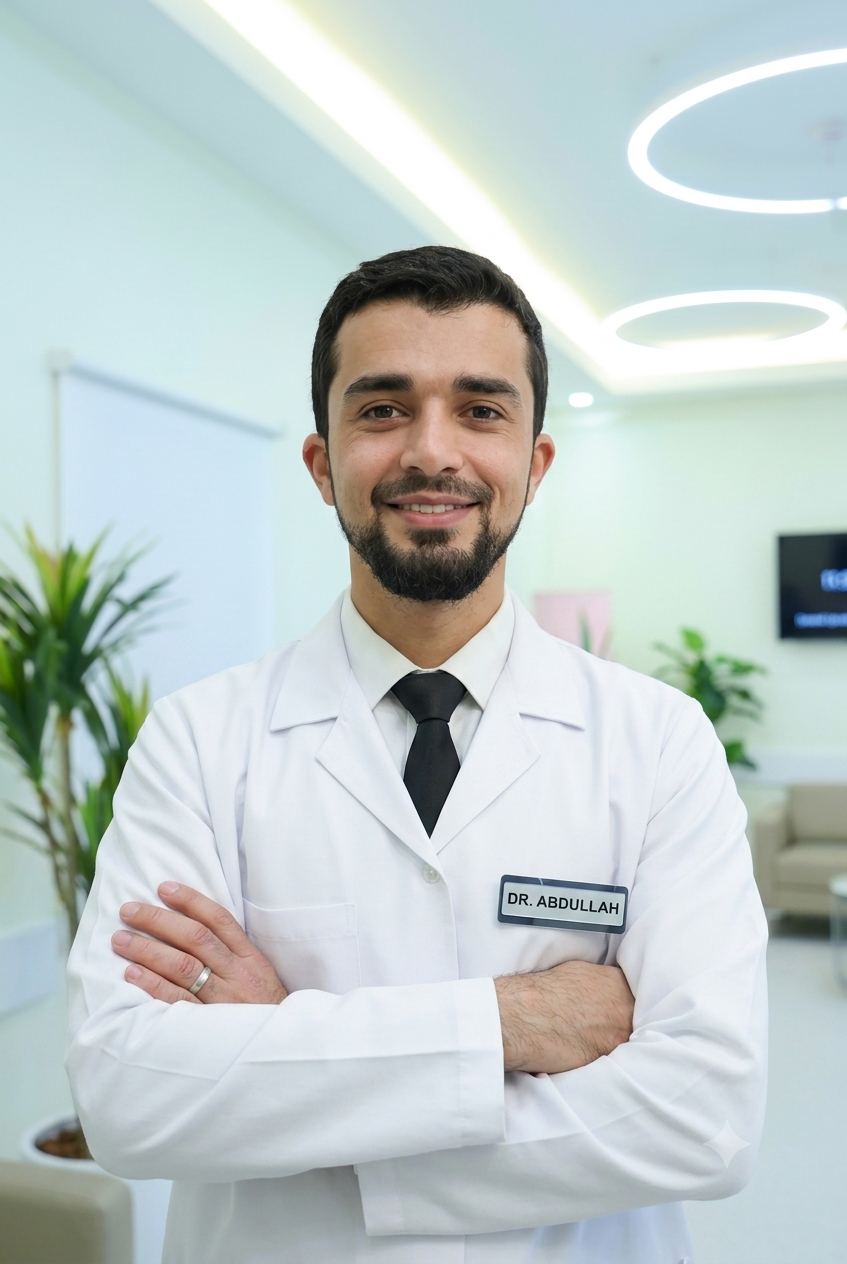
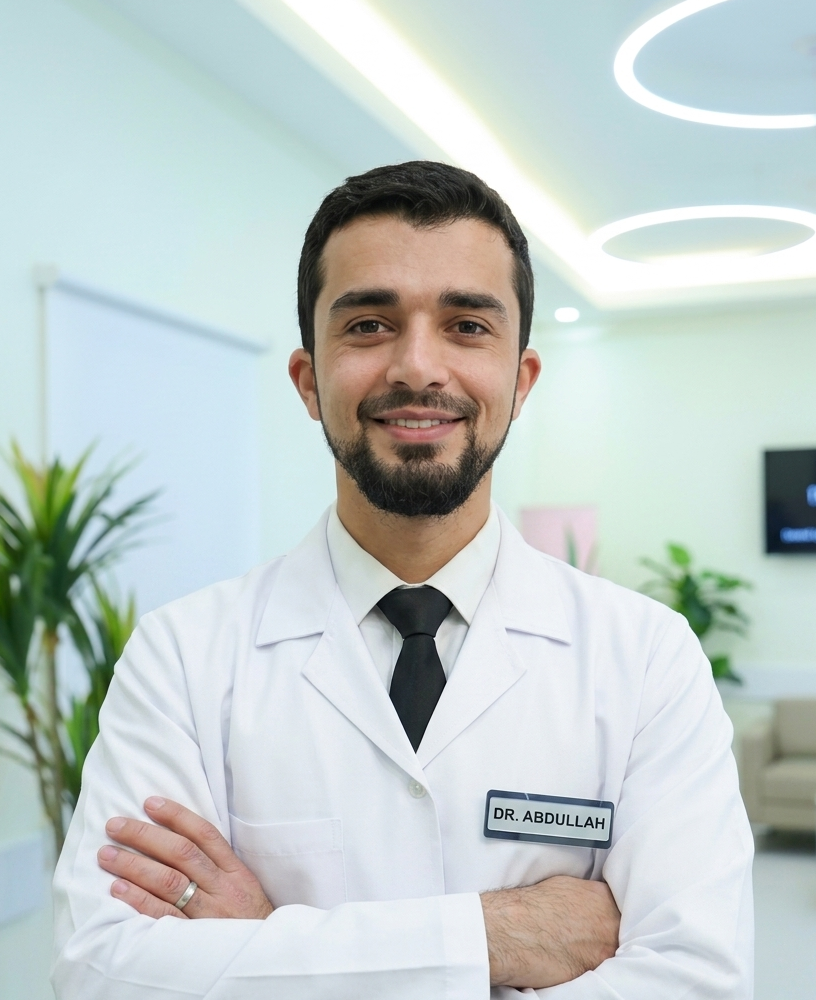
polish services and doctor section

diff --git a/components/sections/doctors.tsx b/components/sections/doctors.tsx
@@ -2,32 +2,28 @@
 
 import { motion } from "framer-motion";
 import { Section } from "./section-shell";
-import { Card, CardImage, CardContent } from "@/components/ui/card";
+import { Card, CardContent } from "@/components/ui/card";
 import { Heading, Text } from "@/components/ui/typography";
 import type { ImageContent, IconContent } from "./types";
 import { staggerContainer, slideUp } from "@/lib/motion";
 
 export interface DoctorItem {
   /**
-   * Doctor photo. Optional — omit to use `specialtyIcon` instead (e.g. for
-   * clinics that prefer not to display staff photos), or omit both for a
-   * generic placeholder tile.
+   * Doctor photo. Optional — omit to use `specialtyIcon` instead,
+   * or omit both for a generic placeholder tile.
    */
   image?: ImageContent;
   /**
-   * Equipment/specialty icon shown instead of a photo — e.g. a stethoscope
-   * for cardiology, a tooth for dentistry. Rendered in a fixed-height tile
-   * the same size as the photo slot, so card height stays identical
-   * whether a doctor has a photo or an icon.
+   * Equipment/specialty icon shown instead of a photo.
    */
   specialtyIcon?: IconContent;
-  /** Optional small badge shown over the photo, e.g. "Founder". */
+  /** Optional badge shown over top-start corner, e.g. "Founder". */
   badge?: string;
   name: string;
   specialization: string;
-  /** One short sentence — a scan-friendly credibility line, not a full bio. */
+  /** One short sentence — a scan-friendly credibility line. */
   description?: string;
-  /** e.g. "12 years experience" — kept as a plain string so copy/locale controls exact phrasing. */
+  /** e.g. "12+ years experience" */
   experience?: string;
 }
 
@@ -41,89 +37,126 @@ export interface DoctorsContent {
   animate?: boolean;
 }
 
-/**
- * LAYOUT
- * Mobile:  1 column.
- * Tablet:  2 columns.
- * Desktop: 3 columns (fixed, per spec).
- *
- * DESIGN RULES
- * - Every card has an identical h-48 visual slot at the top — a real
- *   photo (`CardImage`), a specialty-icon tile, or a generic placeholder
- *   tile — so card height never varies with content availability.
- * - Optional `badge` (e.g. "Founder") renders as a small pill over the
- *   top-start corner of the image slot.
- * - Name is the visual anchor (h3-weight); specialization is secondary;
- *   description/experience are tertiary/muted — trust hierarchy, not
- *   decoration.
- * - RTL: card content uses `text-start`, and the badge uses `start-3`
- *   (not `left-3`), both inherited/mirrored automatically under
- *   dir="rtl" — no directional classes needed here.
- *
- * MOTION
- * Uses only the existing `staggerContainer` + `slideUp` variants — cards
- * reveal one after another rather than all at once, still calm/medical
- * (same duration/easing as the rest of the system).
- */
 export function Doctors({
   id,
   eyebrow,
   title,
   description,
   doctors,
-  animate = false,
+  animate = true,
 }: DoctorsContent) {
-  const GridWrapper = animate ? motion.div : "div";
+  const Container = animate ? motion.div : "div";
 
   return (
-    <Section id={id} eyebrow={eyebrow} title={title} description={description} animate={animate}>
-      <GridWrapper
-        {...(animate
-          ? { variants: staggerContainer, initial: "hidden", whileInView: "visible", viewport: { once: true, margin: "-80px" } }
-          : {})}
-        className="grid grid-cols-1 gap-6 sm:grid-cols-2 lg:grid-cols-3"
-      >
-        {doctors.map((doctor, i) => (
-          <motion.div key={i} {...(animate ? { variants: slideUp } : {})}>
-            <Card className="flex h-full flex-col">
-              <div className="relative">
-                {doctor.image ? (
-                  <CardImage src={doctor.image.src} alt={doctor.image.alt} className="object-top" />
-                ) : (
-                  <div className="flex h-48 w-full items-center justify-center bg-muted text-primary" aria-hidden>
-                    {doctor.specialtyIcon ?? (
-                      <Text variant="caption">Doctor Photo</Text>
+    <div className="relative overflow-hidden">
+      {/* Symmetric background gradient identical to About and Services */}
+      <div className="absolute inset-0 -z-10" aria-hidden>
+        <div className="absolute inset-0 bg-[linear-gradient(to_bottom,var(--color-background),var(--color-secondary)_50%,var(--color-background)_100%)]" />
+      </div>
+
+      <Section id={id} className="py-xl md:py-2xl">
+        <Container
+          {...(animate
+            ? {
+                variants: staggerContainer,
+                initial: "hidden",
+                whileInView: "visible",
+                viewport: { once: true, margin: "-50px" },
+              }
+            : {})}
+          className="flex flex-col items-center w-full"
+        >
+          {/* Animated Header Block */}
+          <motion.div
+            {...(animate ? { variants: slideUp } : {})}
+            className="flex flex-col items-center text-center max-w-3xl mx-auto mb-10 md:mb-14 gap-3"
+          >
+            {eyebrow && <Heading level="h6">{eyebrow}</Heading>}
+            <Heading level="h2" className="text-foreground">
+              {title}
+            </Heading>
+            {description && (
+              <Text variant="body" className="text-muted-foreground text-balance">
+                {description}
+              </Text>
+            )}
+          </motion.div>
+
+          {/* Doctors Grid: 1 col mobile, 2 cols tablet, 3 cols desktop */}
+          <div className="grid grid-cols-1 gap-6 sm:grid-cols-2 lg:grid-cols-3 w-full">
+            {doctors.map((doctor, i) => (
+              <motion.div
+                key={i}
+                {...(animate ? { variants: slideUp } : {})}
+                className="h-full"
+              >
+                <Card 
+                  interactive 
+                  className="group relative flex h-full flex-col overflow-hidden rounded-section border border-border bg-background transition-all duration-300 hover:border-primary/30 hover:shadow-lg"
+                >
+                  {/* 
+                      FIX APPLIED: 
+                      Changed aspect-[4/3] to aspect-[3/2] (a standard landscape photo ratio). 
+                      This prevents wide photos from being aggressively cropped on the sides and top.
+                  */}
+                  <div className="relative w-full aspect-[3/2] overflow-hidden bg-muted">
+                    {doctor.image ? (
+                      <img
+                        src={doctor.image.src}
+                        alt={doctor.image.alt}
+                        loading="lazy"
+                        className="absolute inset-0 h-full w-full object-cover object-center transition-transform duration-500 ease-out group-hover:scale-105"
+                      />
+                    ) : (
+                      <div
+                        className="absolute inset-0 flex items-center justify-center text-primary"
+                        aria-hidden
+                      >
+                        {doctor.specialtyIcon ?? (
+                          <Text variant="caption">Doctor Photo</Text>
+                        )}
+                      </div>
+                    )}
+
+                    {/* Glassmorphic Badge */}
+                    {doctor.badge && (
+                      <span className="absolute start-3 top-3 rounded-full border border-border/80 bg-background/85 backdrop-blur-md px-3 py-1 text-xs font-semibold text-foreground shadow-sm z-10">
+                        {doctor.badge}
+                      </span>
                     )}
                   </div>
-                )}
-                {doctor.badge && (
-                  <span className="absolute start-3 top-3 rounded-full border border-border bg-secondary px-3 py-1 text-xs font-medium text-secondary-foreground shadow-subtle">
-                    {doctor.badge}
-                  </span>
-                )}
-              </div>
-              <CardContent className="flex flex-1 flex-col pt-md text-start">
-                <Heading level="h5" as="h3">
-                  {doctor.name}
-                </Heading>
-                <Text variant="small" className="mt-1 text-primary">
-                  {doctor.specialization}
-                </Text>
-                {doctor.description && (
-                  <Text variant="small" className="mt-2">
-                    {doctor.description}
-                  </Text>
-                )}
-                {doctor.experience && (
-                  <Text variant="caption" className="mt-auto pt-2">
-                    {doctor.experience}
-                  </Text>
-                )}
-              </CardContent>
-            </Card>
-          </motion.div>
-        ))}
-      </GridWrapper>
-    </Section>
+
+                  {/* Content Block */}
+                  <CardContent className="flex flex-1 flex-col p-5 sm:p-6 text-start">
+                    <Heading level="h5" as="h3" className="text-foreground group-hover:text-primary transition-colors duration-200">
+                      {doctor.name}
+                    </Heading>
+
+                    <Text variant="small" className="mt-1 font-medium text-primary">
+                      {doctor.specialization}
+                    </Text>
+
+                    {doctor.description && (
+                      <Text variant="small" className="mt-3 text-muted-foreground leading-relaxed flex-1">
+                        {doctor.description}
+                      </Text>
+                    )}
+
+                    {/* Experience Tag Footer */}
+                    {doctor.experience && (
+                      <div className="mt-4 pt-3 border-t border-border/60 flex items-center justify-between">
+                        <span className="inline-flex items-center text-xs font-medium text-muted-foreground bg-secondary/60 rounded-md px-2.5 py-1">
+                          {doctor.experience}
+                        </span>
+                      </div>
+                    )}
+                  </CardContent>
+                </Card>
+              </motion.div>
+            ))}
+          </div>
+        </Container>
+      </Section>
+    </div>
   );
 }

diff --git a/components/sections/services.tsx b/components/sections/services.tsx
@@ -1,6 +1,11 @@
+"use client";
+
+import { motion } from "framer-motion";
 import { Section } from "./section-shell";
+import { Heading, Text } from "@/components/ui/typography";
 import { Card, CardImage, CardHeader, CardTitle, CardDescription } from "@/components/ui/card";
 import type { ImageContent } from "./types";
+import { staggerContainer, slideUp } from "@/lib/motion";
 
 export interface ServiceItem {
   image: ImageContent;
@@ -26,27 +31,6 @@ const columnClasses: Record<2 | 3 | 4, string> = {
   4: "sm:grid-cols-2 lg:grid-cols-4",
 };
 
-/**
- * LAYOUT
- * Mobile:  1 column, full-width cards.
- * Tablet:  2 columns.
- * Desktop: `columns` prop (2–4), default 3.
- *
- * DESIGN RULES
- * - Hover lift is inherited from the Card component (soft, not heavy) —
- *   no extra motion is added here.
- * - Each card leads with a full-width image (via `CardImage`) at a fixed
- *   h-48 height with `object-cover`, clipped to the card's rounded top
- *   corners by `Card`'s own `overflow-hidden` — every card stays the
- *   same height regardless of source image dimensions.
- * - RTL: the grid and card content use flex/grid default flow and
- *   `text-start`-based typography (inherited from Card/Typography), so
- *   the whole grid mirrors under dir="rtl" with no extra classes here.
- *
- * USAGE CONSTRAINTS
- * - Keep `description` per service short (1 sentence) — this is a scan
- *   grid, not a detail page. Link to a dedicated service page for depth.
- */
 export function Services({
   id,
   eyebrow,
@@ -54,21 +38,65 @@ export function Services({
   description,
   services,
   columns = 3,
-  animate = false,
+  animate = true,
 }: ServicesContent) {
+  const Container = animate ? motion.div : "div";
+
   return (
-    <Section id={id} eyebrow={eyebrow} title={title} description={description} animate={animate}>
-      <div className={`grid grid-cols-1 gap-6 ${columnClasses[columns]}`}>
-        {services.map((service, i) => (
-          <Card key={i} className="h-full">
-            <CardImage src={service.image.src} alt={service.image.alt} />
-            <CardHeader>
-              <CardTitle>{service.title}</CardTitle>
-              <CardDescription>{service.description}</CardDescription>
-            </CardHeader>
-          </Card>
-        ))}
+    <div className="relative overflow-hidden">
+      {/* Exact symmetric background gradient matching the About section */}
+      <div className="absolute inset-0 -z-10" aria-hidden>
+        <div className="absolute inset-0 bg-[linear-gradient(to_bottom,var(--color-background),var(--color-secondary)_50%,var(--color-background)_100%)]" />
       </div>
-    </Section>
+
+      <Section id={id} className="py-xl md:py-2xl">
+        <Container
+          {...(animate
+            ? {
+                variants: staggerContainer,
+                initial: "hidden",
+                whileInView: "visible",
+                viewport: { once: true, margin: "-50px" },
+              }
+            : {})}
+          className="flex flex-col items-center w-full"
+        >
+          {/* Animated Header Block (Reverted back to default design system typography) */}
+          <motion.div
+            {...(animate ? { variants: slideUp } : {})}
+            className="flex flex-col items-center text-center max-w-3xl mx-auto mb-10 md:mb-14 gap-3"
+          >
+            {eyebrow && <Heading level="h6">{eyebrow}</Heading>}
+            <Heading level="h2" className="text-foreground">
+              {title}
+            </Heading>
+            {description && (
+              <Text variant="body" className="text-muted-foreground">
+                {description}
+              </Text>
+            )}
+          </motion.div>
+
+          {/* Animated Services Grid */}
+          <div className={`grid grid-cols-1 gap-6 w-full ${columnClasses[columns]}`}>
+            {services.map((service, i) => (
+              <motion.div
+                key={i}
+                {...(animate ? { variants: slideUp } : {})}
+                className="h-full"
+              >
+                <Card interactive className="h-full flex flex-col overflow-hidden">
+                  <CardImage src={service.image.src} alt={service.image.alt} />
+                  <CardHeader className="text-center flex flex-col items-center">
+                    <CardTitle>{service.title}</CardTitle>
+                    <CardDescription>{service.description}</CardDescription>
+                  </CardHeader>
+                </Card>
+              </motion.div>
+            ))}
+          </div>
+        </Container>
+      </Section>
+    </div>
   );
 }
